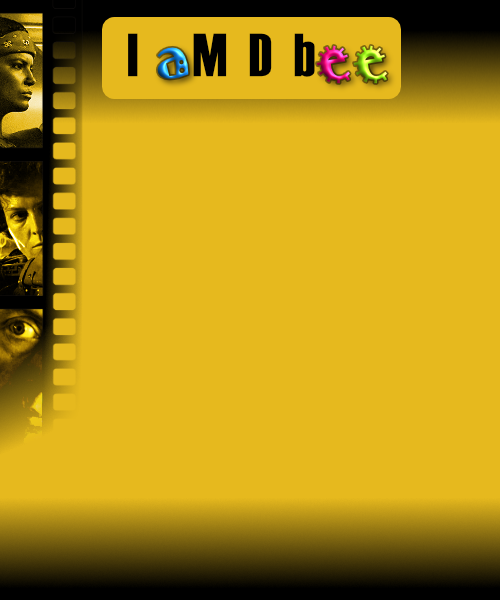
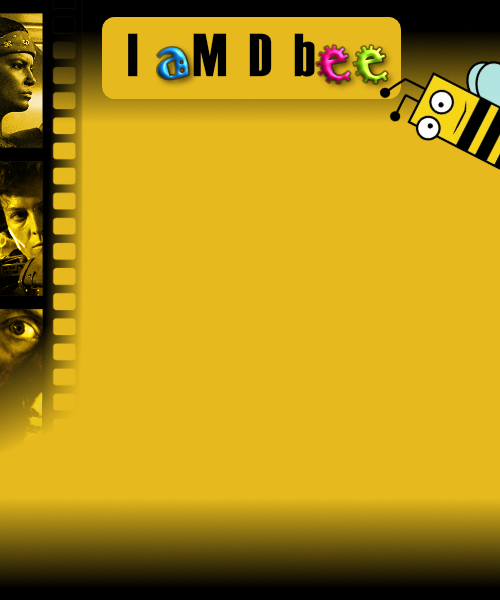
added bee / update

Changed region(s): [[0.75, 0.09, 1.0, 0.3]]

diff --git a/main.py b/main.py
@@ -15,7 +15,7 @@ font_style = 'Georgia'
 
 
 window = Tk()
-window.title('Hunny 4 life')
+window.title('Hunny 4 Life')
 width = 500
 length = 600
 window.geometry(f'{width}x{length}')

diff --git a/README.md b/README.md
@@ -1,6 +1,13 @@
 # I aM D bee
-- IMDb scraping app for movie, tv show, tv mini series..
+## IMDb scraping app for movie, tv show, tv mini series..
 - Gets the IMDb link from clipboard
-- Copies the movie details(title, year, stars..) to an excel sheet
-- Opens the movie poster in a new browser tab (the poster image is not "right click copy-able" from the movie`s IMDb front page by default)
-- Looks for the user`s native language movie title (once the UI in place, just hungarian at the moment)
+- Copies** the movie details(title, year, stars..) to the taget excel sheet - user able to add the path of the excel sheet via UI
+- ** using Selenium - able to add the chrome driver path via UI
+- Automatically opens the target excel sheet, once the data is saved
+- Opens the movie poster in a new browser tab (if checked - multi size options)
+- Note: the poster image is not "right click copy-able" from the movie`s IMDb front page by default
+- Looks for the user`s native language movie title (if checked - multiple languages option)
+- Automatically opens your movie database excel sheet (if the path added by the user via UI)
+- 
+- Please see the UI screenshot in docs/promo folder
+- Bee icon/figure by Martin Berube, please see more information in launcher/icon
